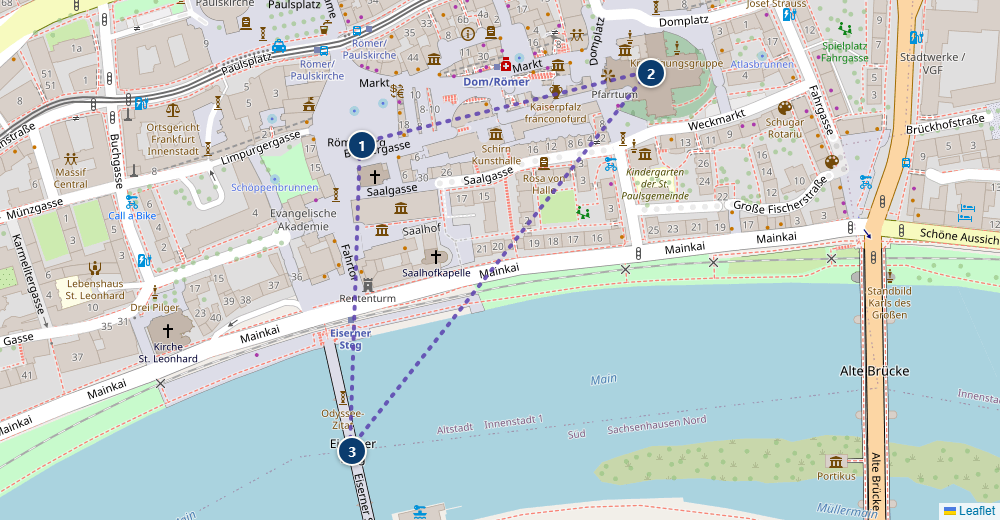
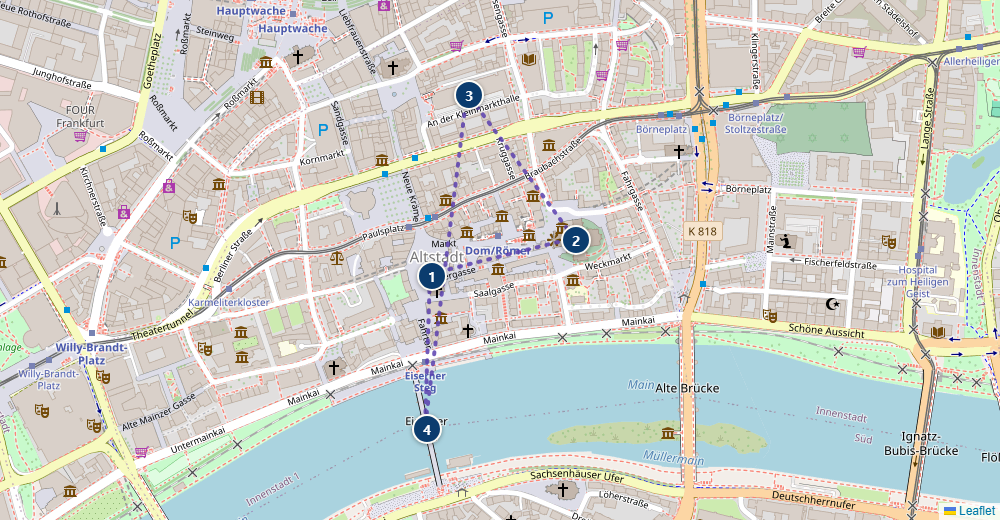
Add walkable indoor markets to Freiburg/Frankfurt routes; add a full walking-loop map for Triberg
- Freiburg: add Markthalle as a numbered landmark card, map pin, and
  route-step (between Martinstor and Rathausplatz); renumber subsequent
  stops
- Frankfurt: add Kleinmarkthalle as a landmark card, map pin, and
  route-step between the cathedral and Eiserner Steg
- Munich's Viktualienmarkt was already a full landmark/map/route stop
  (stop 7) — verified, no change needed
- Triberg: build a new Leaflet route-snapshot map and walk-map-link for
  the town's 3 walkable sights (뻐꾸기시계 원조마을 → 트리베르크란트 → 폭포),
  with the optional Eble Uhren-Park (Schonach, not walkable) shown as an
  off-route callout, matching the pattern used for small-stop cities

diff --git a/germany-roadtrip-planner.html b/germany-roadtrip-planner.html
@@ -2907,14 +2907,15 @@ document.addEventListener('DOMContentLoaded', function(){
       <p class="city-label">프라이부르크</p>
       <p class="walk-map-note">🚗 숙소(Hotel Kühler Krug)→뮌스터 약 4.6km·11분(Günterstal 소재라 도보권 아님) · <a href="https://www.google.com/maps/dir/?api=1&travelmode=driving&origin=47.9662,7.8550&destination=47.9975,7.8541" target="_blank" rel="noopener">Google 지도로 길찾기</a><br>🅿 Parkhaus Karlsbau · 유료(30분당 €1.30, 24시간 최대 €22) · 뮌스터 도보 2~4분 · ⚠ 기존 추천이었던 Parkhaus Am Martinstor는 Google 리뷰 1.9점(폭이 매우 좁아 차량 손상 사례 다수)으로 확인돼 이곳으로 변경 — Karlsbau는 ADAC "이용하기 좋은 주차장"상 2회 수상 · <a href="https://www.google.com/maps/search/?api=1&query=Parkhaus+Karlsbau+Freiburg" target="_blank" rel="noopener">주차장 위치 보기</a><br>🅿 만차 시 대안: ① <a href="https://www.google.com/maps/search/?api=1&query=Tiefgarage+Uni+KG+Freiburg" target="_blank" rel="noopener">Tiefgarage Uni KG</a>(대학본관, Karlsbau와 비슷한 위치·요금, 단 2026년 여름까지 리모델링으로 자리 일부 축소) ② <a href="https://www.google.com/maps/search/?api=1&query=Parkhaus+Am+Martinstor+Freiburg" target="_blank" rel="noopener">Parkhaus Am Martinstor</a>(리뷰는 나쁘지만 도시성문 바로 앞, 시간당 €3)</p>
       <p class="walk-map-note">지도별 추천 코스 — 프라이부르크: 뮌스터 → 시청광장 → 옛 상인회관 → 아우구스티너박물관 → 도시성문 → Haus zum Walfisch (아래 카드 순서와 동일)</p>
-      <a class="walk-map-link" href="https://www.google.com/maps/dir/?api=1&travelmode=walking&origin=47.9975,7.8541&destination=47.9975,7.8541&waypoints=47.9937%2C7.8489%7C47.9962%2C7.8496%7C47.9964%2C7.8507%7C47.9938%2C7.8532%7C47.995%2C7.8527%7C47.9955,7.8529" target="_blank" rel="noopener">📍 Google 지도로 도보 코스 보기(출발·도착: Parkhaus Karlsbau) · 총 약 2.0km · 도보 약 28분</a>
+      <a class="walk-map-link" href="https://www.google.com/maps/dir/?api=1&travelmode=walking&origin=47.9975,7.8541&destination=47.9975,7.8541&waypoints=47.9937%2C7.8489%7C47.9939%2C7.8498%7C47.9962%2C7.8496%7C47.9964%2C7.8507%7C47.9938%2C7.8532%7C47.995%2C7.8527%7C47.9955,7.8529" target="_blank" rel="noopener">📍 Google 지도로 도보 코스 보기(출발·도착: Parkhaus Karlsbau) · 총 약 2.1km · 도보 약 30분</a>
       <div class="route-snapshot">
         <div class="route-snapshot-media">
-          <img src="images/routes/freiburg.png?v=3" alt="프라이부르크 도보 코스 지도 스냅샷" loading="lazy">
+          <img src="images/routes/freiburg.png?v=4" alt="프라이부르크 도보 코스 지도 스냅샷" loading="lazy">
         </div>
         <ol class="route-steps">
         <li><span class="rs-name">주차장(Parkhaus Karlsbau)</span></li>
         <li><span class="rs-name">도시성문(Martinstor)</span><span class="rs-seg">(650m, 9분)</span></li>
+        <li><span class="rs-name">Markthalle</span><span class="rs-seg">(120m, 2분)</span></li>
         <li><span class="rs-name">시청광장</span><span class="rs-seg">(300m, 4분)</span></li>
         <li><span class="rs-name">Haus zum Walfisch</span><span class="rs-seg">(130m, 2분)</span></li>
         <li><span class="rs-name">아우구스티너박물관</span><span class="rs-seg">(450m, 6분)</span></li>
@@ -2934,9 +2935,18 @@ document.addEventListener('DOMContentLoaded', function(){
         </div>
       </div>
       <div class="landmark-card">
+        <img src="https://commons.wikimedia.org/wiki/Special:FilePath/Markthalle%20(Freiburg)%203389.jpg?width=500" alt="프라이부르크 마르크트할레(Markthalle)" loading="lazy">
+        <div class="landmark-body">
+        <h3><span class="stop-num">2</span>마르크트할레(Markthalle)</h3>
+        <p class="landmark-desc">1800년대 건물을 개조한 실내 푸드홀. 세계 각국 음식 스탠드가 모여 있어 도보 코스 중간에 가볍게 식사하기 좋습니다.</p>
+        <div class="landmark-meta">월–목 08:00–20:00, 금·토 08:00–24:00, 일·공휴일 휴무 · <span class="landmark-price">입장 무료(음식은 스탠드별 결제)</span> · <a href="https://www.google.com/maps/search/?api=1&query=Markthalle+Freiburg+im+Breisgau" target="_blank" rel="noopener">지도</a></div>
+        <div class="landmark-parking">🅿 뮌스터 도보 2~4분(Parkhaus Karlsbau) · 유료(30분당 €1.30, 24시간 최대 €22)</div>
+        </div>
+      </div>
+      <div class="landmark-card">
         <img src="https://commons.wikimedia.org/wiki/Special:FilePath/Rathausplatz_Freiburg_10.jpg?width=500" alt="시청광장" loading="lazy">
         <div class="landmark-body">
-        <h3><span class="stop-num">2</span>시청광장(Rathausplatz)</h3>
+        <h3><span class="stop-num">3</span>시청광장(Rathausplatz)</h3>
         <p class="landmark-desc">신 시청사와 구 시청사가 마주 보는 광장. 신 시청사 탑에선 카리용(carillon, 여러 개의 종을 음계에 맞춰 달아 연주하는 종탑 악기)이 울립니다.</p>
         <div class="landmark-meta">카리용 매일 <span style="color:#c0392b;font-weight:800;">12:00</span> 단 1회(놓치면 다음날까지 없음) · 상시 개방 · <span class="landmark-price">무료</span> · <a href="https://www.google.com/maps/search/?api=1&query=Rathausplatz+Freiburg" target="_blank" rel="noopener">지도</a></div>
         <div class="landmark-parking">🅿 뮌스터 도보 2~4분(Parkhaus Karlsbau) · 유료(30분당 €1.30, 24시간 최대 €22)</div>
@@ -2945,7 +2955,7 @@ document.addEventListener('DOMContentLoaded', function(){
       <div class="landmark-card">
         <img src="https://commons.wikimedia.org/wiki/Special:FilePath/2015_Haus_zum_Walfisch.jpg?width=500" alt="Haus zum Walfisch" loading="lazy">
         <div class="landmark-body">
-        <h3><span class="stop-num">3</span>Haus zum Walfisch(고래의 집)</h3>
+        <h3><span class="stop-num">4</span>Haus zum Walfisch(고래의 집)</h3>
         <p class="landmark-desc">1516년 지어진 후기 고딕 건물. 1529~1535년 인문학자 에라스뮈스가 이곳에 머물렀던 것으로 유명합니다.</p>
         <div class="landmark-meta">외관 상시 관람(내부 비공개) · <span class="landmark-price">무료</span> · <a href="https://www.google.com/maps/search/?api=1&query=Haus+zum+Walfisch+Freiburg" target="_blank" rel="noopener">지도</a></div>
         <div class="landmark-parking">🅿 뮌스터 도보 2~4분(Parkhaus Karlsbau) · 유료(30분당 €1.30, 24시간 최대 €22)</div>
@@ -2954,7 +2964,7 @@ document.addEventListener('DOMContentLoaded', function(){
       <div class="landmark-card">
         <img src="https://commons.wikimedia.org/wiki/Special:FilePath/Augustinermuseum_Freiburg_-_DSC06509.JPG?width=500" alt="아우구스티너박물관" loading="lazy">
         <div class="landmark-body">
-        <h3><span class="stop-num">4</span>아우구스티너박물관(Augustinermuseum)</h3>
+        <h3><span class="stop-num">5</span>아우구스티너박물관(Augustinermuseum)</h3>
         <p class="landmark-desc">옛 아우구스티노 수도원 건물을 개조한 미술관. 뮌스터 원본 스테인드글라스·조각상 등 중세~근대 미술품을 소장합니다.</p>
         <div class="landmark-meta">화–일 10:00–17:00(금 ~19:00), 월요일 휴관 · <span class="landmark-price">성인 €12 · 27세 미만 무료(현장 확인 권장)</span> · <a href="https://museen.freiburg.de/museen/am" target="_blank" rel="noopener">홈페이지</a> · <a href="https://www.google.com/maps/search/?api=1&query=Augustinermuseum+Freiburg" target="_blank" rel="noopener">지도</a></div>
         <div class="landmark-parking">🅿 뮌스터 도보 2~4분(Parkhaus Karlsbau) · 유료(30분당 €1.30, 24시간 최대 €22)</div>
@@ -2963,7 +2973,7 @@ document.addEventListener('DOMContentLoaded', function(){
       <div class="landmark-card">
         <img src="https://commons.wikimedia.org/wiki/Special:FilePath/Historisches_Kaufhaus_Freiburg.jpg?width=500" alt="옛 상인회관" loading="lazy">
         <div class="landmark-body">
-        <h3><span class="stop-num">5</span>옛 상인회관(Historisches Kaufhaus)</h3>
+        <h3><span class="stop-num">6</span>옛 상인회관(Historisches Kaufhaus)</h3>
         <p class="landmark-desc">뮌스터 광장 남쪽을 압도하는 붉은 파사드의 1520년대 건물. 합스부르크 황제들의 문장이 벽면을 장식합니다.</p>
         <div class="landmark-meta">외관 상시 관람(내부는 행사장으로 비공개인 경우 많음) · <span class="landmark-price">외관 무료</span> · <a href="https://www.google.com/maps/search/?api=1&query=Historisches+Kaufhaus+Freiburg" target="_blank" rel="noopener">지도</a></div>
         <div class="landmark-parking">🅿 뮌스터 도보 2~4분(Parkhaus Karlsbau) · 유료(30분당 €1.30, 24시간 최대 €22)</div>
@@ -2972,7 +2982,7 @@ document.addEventListener('DOMContentLoaded', function(){
       <div class="landmark-card">
         <img src="https://upload.wikimedia.org/wikipedia/commons/thumb/7/76/Freiburger_M%C3%BCnster_-_FaB.jpg/500px-Freiburger_M%C3%BCnster_-_FaB.jpg" alt="프라이부르크 뮌스터 전망대(Freiburger Münster)" loading="lazy">
         <div class="landmark-body">
-        <h3><span class="stop-num">6</span>프라이부르크 뮌스터 전망대(Freiburger Münster)</h3>
+        <h3><span class="stop-num">7</span>프라이부르크 뮌스터 전망대(Freiburger Münster)</h3>
         <p class="landmark-desc">구시가 어디서나 보이는 116m 첨탑. 정교한 레이스 세공 같은 첨탑 장식이 특징입니다.</p>
         <div class="landmark-meta">월–토 11:00–16:00, 일·공휴일 13:00–17:00 · 본당 무료 · <span class="landmark-price">전망대 성인 €5</span> · <a href="https://www.freiburgermuenster.info" target="_blank" rel="noopener">홈페이지</a> · <a href="https://www.google.com/maps/search/?api=1&query=Freiburger+Muenster" target="_blank" rel="noopener">지도</a></div>
         <div class="landmark-parking">🅿 뮌스터 도보 2~4분(Parkhaus Karlsbau) · 유료(30분당 €1.30, 24시간 최대 €22)</div>
@@ -3074,20 +3084,41 @@ document.addEventListener('DOMContentLoaded', function(){
       </div>
       <p class="city-label">트리베르크</p>
       <p class="walk-map-note">🚗 프라이부르크→트리베르크 약 59km·1시간 1분 · <a href="https://www.google.com/maps/dir/?api=1&travelmode=driving&origin=47.9955,7.8529&destination=48.1263,8.2313" target="_blank" rel="noopener">Google 지도로 길찾기</a><br>🅿 시내 곳곳 소규모 주차장 · 유료(시간당 약 €1~2, 현장 확인 권장)</p>
+      <p class="walk-map-note">지도별 추천 코스 — 트리베르크: 뻐꾸기시계 원조마을 → 트리베르크란트 → 폭포</p>
+      <a class="walk-map-link" href="https://www.google.com/maps/dir/?api=1&travelmode=walking&origin=48.1291,8.2311&destination=48.1291,8.2311&waypoints=48.1315%2C8.2325%7C48.1264,8.2276" target="_blank" rel="noopener">📍 Google 지도로 도보 코스 보기 · 총 약 1.5km · 도보 약 20분</a>
+      <div class="route-snapshot">
+        <div class="route-snapshot-media">
+          <img src="images/routes/triberg.png" alt="트리베르크 도보 코스 지도 스냅샷" loading="lazy">
+        </div>
+        <ol class="route-steps">
+        <li><span class="rs-name">뻐꾸기시계 원조마을</span></li>
+        <li><span class="rs-name">트리베르크란트</span><span class="rs-seg">(300m, 4분)</span></li>
+        <li><span class="rs-name">트리베르크 폭포</span><span class="rs-seg">(750m, 10분)</span></li>
+        <li><span class="rs-name">뻐꾸기시계 원조마을</span><span class="rs-seg">(450m, 6분)</span></li>
+        </ol>
+      </div>
       <div class="landmark-card">
         <img src="https://commons.wikimedia.org/wiki/Special:FilePath/Cuckoo%20clocks%20in%20Triberg%20im%20Schwarzwald.JPG?width=500" alt="트리베르크 뻐꾸기시계 원조마을" loading="lazy">
         <div class="landmark-body">
-        <h3>트리베르크 뻐꾸기시계 원조마을(Haus der 1000 Uhren)</h3>
+        <h3><span class="stop-num">1</span>트리베르크 뻐꾸기시계 원조마을(Haus der 1000 Uhren)</h3>
         <p class="landmark-desc">뻐꾸기시계 발상지로 알려진 블랙 포레스트 마을. 하우스 데어 1000 우렌 등 원조 공방·상점이 모여 있고, 인근 쇼나흐(Schonach)엔 한때 세계 최대로 불렸던 대형 뻐꾸기시계도 있습니다.</p>
         <div class="landmark-meta">상점가는 대체로 09:00–18:00(매장별 상이) · <span class="landmark-price">거리 관람 무료 · 매장 관람 무료</span> · <a href="https://www.google.com/maps/search/?api=1&query=Haus+der+1000+Uhren+Triberg" target="_blank" rel="noopener">지도</a></div>
         <div class="landmark-parking">🅿 시내 곳곳 소규모 주차장 · 유료(시간당 약 €1~2) · 현장 확인 권장</div>
         <div class="meaning-box"><span class="mb-label">💡 이곳이 갖는 의미</span>18세기부터 뻐꾸기시계 산업이 시작된 블랙 포레스트의 중심지 중 하나로, &ldquo;원조&rdquo; 타이틀을 두고 인근 마을들과 함께 거론되는 대표 관광지입니다.</div>
         </div>
       </div>
+      <div class="landmark-card wide">
+        <div class="landmark-body">
+        <h3><span class="stop-num">2</span>[선택] 트리베르크란트(Triberg-Land)</h3>
+        <p class="landmark-desc">트리베르크 시내 중심가에 있는 소규모 테마 명소. 정확한 전시 구성은 현장에서 확인을 권장하며, 폭포·시계마을 관람 사이 짧게 들르기 좋은 위치입니다.</p>
+        <div class="landmark-meta">영업시간 현장 확인 권장 · <span class="landmark-price">현장 확인 권장</span> · <a href="https://www.google.com/maps/search/?api=1&query=Triberg-Land+Triberg" target="_blank" rel="noopener">지도</a></div>
+        <div class="landmark-parking">🅿 시내 곳곳 소규모 주차장</div>
+        </div>
+      </div>
       <div class="landmark-card">
         <img src="https://commons.wikimedia.org/wiki/Special:FilePath/Triberg-Gutach-Wasserfall-26-2025-gje.jpg?width=500" alt="트리베르크 폭포" loading="lazy">
         <div class="landmark-body">
-        <h3>트리베르크 폭포(Triberger Wasserfälle)</h3>
+        <h3><span class="stop-num">3</span>트리베르크 폭포(Triberger Wasserfälle)</h3>
         <p class="landmark-desc">독일에서 가장 높은 폭포(163m, 여러 단으로 낙차). 시내에서 도보로 바로 이어지는 산책로가 있어 뻐꾸기시계 마을 관람과 묶어 짧게 들르기 좋습니다.</p>
         <div class="landmark-meta">계절별 상이(대체로 09:00 전후~일몰) · <span class="landmark-price">성인 €9(슈바르츠발트카드 €8.50)</span> · <a href="https://www.google.com/maps/search/?api=1&query=Triberger+Wasserfaelle" target="_blank" rel="noopener">지도</a></div>
         <div class="landmark-parking">🅿 시내 곳곳 소규모 주차장 · 유료(시간당 약 €1~2) · 폭포 입구까지 도보권</div>
@@ -3097,17 +3128,9 @@ document.addEventListener('DOMContentLoaded', function(){
         <img src="https://commons.wikimedia.org/wiki/Special:FilePath/Weltgr%C3%B6sste%20Kuckucksuhr%20-%20World%27s%20Biggest%20Cuckoo%20Clock%20-%20panoramio.jpg?width=500" alt="에블레 우렌파크 세계 최대 뻐꾸기시계" loading="lazy">
         <div class="landmark-body">
         <h3>[선택] 에블레 우렌파크(Eble Uhren-Park) — 세계 최대 뻐꾸기시계</h3>
-        <p class="landmark-desc">트리베르크 인근 쇼나흐(Schonach)에 있는 대형 시계 판매점 겸 명물. 건물 자체가 거대한 뻐꾸기시계 모양으로, 한때 "세계에서 가장 큰 뻐꾸기시계" 타이틀을 두고 인근 마을과 경쟁했습니다. 시내에서 차량으로 조금 벗어나 있어 시간 여유가 있을 때 들르는 선택 코스입니다.</p>
+        <p class="landmark-desc">트리베르크 인근 쇼나흐(Schonach)에 있는 대형 시계 판매점 겸 명물. 건물 자체가 거대한 뻐꾸기시계 모양으로, 한때 "세계에서 가장 큰 뻐꾸기시계" 타이틀을 두고 인근 마을과 경쟁했습니다. 시내에서 차량으로 조금 벗어나 있어(도보권 밖) 시간 여유가 있을 때 들르는 선택 코스입니다.</p>
         <div class="landmark-meta">매장 영업시간 기준(현장 확인 권장) · <span class="landmark-price">외관 관람 무료</span> · <a href="https://www.google.com/maps/search/?api=1&query=Eble+Uhren-Park+Schonach" target="_blank" rel="noopener">지도</a></div>
         <div class="landmark-parking">🅿 자체 주차장(무료)</div>
-        </div>
-      </div>
-      <div class="landmark-card wide">
-        <div class="landmark-body">
-        <h3>[선택] 트리베르크란트(Triberg-Land)</h3>
-        <p class="landmark-desc">트리베르크 시내 중심가에 있는 소규모 테마 명소. 정확한 전시 구성은 현장에서 확인을 권장하며, 폭포·시계마을 관람 사이 짧게 들르기 좋은 위치입니다.</p>
-        <div class="landmark-meta">영업시간 현장 확인 권장 · <span class="landmark-price">현장 확인 권장</span> · <a href="https://www.google.com/maps/search/?api=1&query=Triberg-Land+Triberg" target="_blank" rel="noopener">지도</a></div>
-        <div class="landmark-parking">🅿 시내 곳곳 소규모 주차장</div>
         </div>
       </div>
       <div class="sight-list">
@@ -4061,15 +4084,16 @@ document.addEventListener('DOMContentLoaded', function(){
       </div>
       <p class="city-label">프랑크푸르트</p>
       <p class="walk-map-note">🚗 비스바덴→프랑크푸르트 약 39km·32분 · <a href="https://www.google.com/maps/dir/?api=1&travelmode=driving&origin=50.0822,8.2429&destination=50.1106,8.6822" target="_blank" rel="noopener">Google 지도로 길찾기</a><br>🅿 Parkhaus Dom-Römer · 유료(시간당 약 €3~4) · <a href="https://www.google.com/maps/search/?api=1&query=Parkhaus+Dom-Roemer+Frankfurt" target="_blank" rel="noopener">주차장 위치 보기</a><br>🅿 만차 시 대안: <a href="https://www.google.com/maps/search/?api=1&query=Parkhaus+Konstabler+Toengesgasse+8+Frankfurt" target="_blank" rel="noopener">Parkhaus Konstabler</a>(4.0★/967리뷰, 도보 약 12분)</p>
-      <p class="walk-map-note">뢰머광장 일대(도보권, 아래 3곳 모두 서로 5분 이내) — 뢰머광장 → 대성당 → 아이제르너 슈텍</p>
-      <a class="walk-map-link" href="https://www.google.com/maps/dir/?api=1&travelmode=walking&origin=50.1102,8.6822&destination=50.1102,8.6822&waypoints=50.1107%2C8.6853%7C50.1081,8.6821" target="_blank" rel="noopener">📍 Google 지도로 도보 코스 보기(Parkhaus Dom-Römer 출발·도착) · 총 약 1.4km · 도보 약 19분</a>
+      <p class="walk-map-note">뢰머광장 일대(도보권, 아래 4곳 모두 서로 5분 이내) — 뢰머광장 → 대성당 → 클라인마르크트할레 → 아이제르너 슈텍</p>
+      <a class="walk-map-link" href="https://www.google.com/maps/dir/?api=1&travelmode=walking&origin=50.1102,8.6822&destination=50.1102,8.6822&waypoints=50.1107%2C8.6853%7C50.1127%2C8.6830%7C50.1081,8.6821" target="_blank" rel="noopener">📍 Google 지도로 도보 코스 보기(Parkhaus Dom-Römer 출발·도착) · 총 약 1.7km · 도보 약 23분</a>
       <div class="route-snapshot">
         <div class="route-snapshot-media">
-          <img src="images/routes/frankfurt.png" alt="프랑크푸르트 도보 코스 지도 스냅샷" loading="lazy">
+          <img src="images/routes/frankfurt.png?v=2" alt="프랑크푸르트 도보 코스 지도 스냅샷" loading="lazy">
         </div>
         <ol class="route-steps">
         <li><span class="rs-name">뢰머광장(Parkhaus Dom-Römer 출발)</span></li>
         <li><span class="rs-name">프랑크푸르트 대성당</span><span class="rs-seg">(300m, 4분)</span></li>
+        <li><span class="rs-name">클라인마르크트할레(Kleinmarkthalle)</span><span class="rs-seg">(300m, 4분)</span></li>
         <li><span class="rs-name">아이제르너 슈텍</span><span class="rs-seg">(600m, 8분)</span></li>
         <li><span class="rs-name">뢰머광장(Parkhaus Dom-Römer 복귀)</span><span class="rs-seg">(500m, 7분)</span></li>
         </ol>
@@ -4090,6 +4114,15 @@ document.addEventListener('DOMContentLoaded', function(){
         <h3>프랑크푸르트 대성당(카이저돔, Kaiserdom St. Bartholomäus)</h3>
         <p class="landmark-desc">뢰머광장 바로 옆 붉은 사암 성당. 신성로마제국 황제들의 선출·대관식이 열렸던 곳입니다.</p>
         <div class="landmark-meta">월–토 09:00–20:00, 일 13:00–20:00(미사 시간 제외) · <span class="landmark-price">본당 무료</span> · <a href="https://www.google.com/maps/search/?api=1&query=Kaiserdom+Frankfurt" target="_blank" rel="noopener">지도</a></div>
+        <div class="landmark-parking">🅿 Parkhaus Dom-Römer · 유료(시간당 약 €3~4)</div>
+        </div>
+      </div>
+      <div class="landmark-card">
+        <img src="https://commons.wikimedia.org/wiki/Special:FilePath/Kleinmarkthalle,%20Frankfurt,%20Interior%20view%2020190914%201.jpg?width=500" alt="클라인마르크트할레(Kleinmarkthalle) 내부" loading="lazy">
+        <div class="landmark-body">
+        <h3>클라인마르크트할레(Kleinmarkthalle)</h3>
+        <p class="landmark-desc">1954년 문을 연 실내 시장. 정육점·치즈가게·청과상 등 100여 개 상점이 모여 있어 즉석 프랑크푸르터 소시지 등을 사 먹기 좋습니다.</p>
+        <div class="landmark-meta">월–금 08:00–18:00, 토 08:00–16:00, 일·공휴일 휴무 · <span class="landmark-price">입장 무료</span> · <a href="https://www.google.com/maps/search/?api=1&query=Kleinmarkthalle+Frankfurt" target="_blank" rel="noopener">지도</a></div>
         <div class="landmark-parking">🅿 Parkhaus Dom-Römer · 유료(시간당 약 €3~4)</div>
         </div>
       </div>

diff --git a/index.html b/index.html
@@ -2907,14 +2907,15 @@ document.addEventListener('DOMContentLoaded', function(){
       <p class="city-label">프라이부르크</p>
       <p class="walk-map-note">🚗 숙소(Hotel Kühler Krug)→뮌스터 약 4.6km·11분(Günterstal 소재라 도보권 아님) · <a href="https://www.google.com/maps/dir/?api=1&travelmode=driving&origin=47.9662,7.8550&destination=47.9975,7.8541" target="_blank" rel="noopener">Google 지도로 길찾기</a><br>🅿 Parkhaus Karlsbau · 유료(30분당 €1.30, 24시간 최대 €22) · 뮌스터 도보 2~4분 · ⚠ 기존 추천이었던 Parkhaus Am Martinstor는 Google 리뷰 1.9점(폭이 매우 좁아 차량 손상 사례 다수)으로 확인돼 이곳으로 변경 — Karlsbau는 ADAC "이용하기 좋은 주차장"상 2회 수상 · <a href="https://www.google.com/maps/search/?api=1&query=Parkhaus+Karlsbau+Freiburg" target="_blank" rel="noopener">주차장 위치 보기</a><br>🅿 만차 시 대안: ① <a href="https://www.google.com/maps/search/?api=1&query=Tiefgarage+Uni+KG+Freiburg" target="_blank" rel="noopener">Tiefgarage Uni KG</a>(대학본관, Karlsbau와 비슷한 위치·요금, 단 2026년 여름까지 리모델링으로 자리 일부 축소) ② <a href="https://www.google.com/maps/search/?api=1&query=Parkhaus+Am+Martinstor+Freiburg" target="_blank" rel="noopener">Parkhaus Am Martinstor</a>(리뷰는 나쁘지만 도시성문 바로 앞, 시간당 €3)</p>
       <p class="walk-map-note">지도별 추천 코스 — 프라이부르크: 뮌스터 → 시청광장 → 옛 상인회관 → 아우구스티너박물관 → 도시성문 → Haus zum Walfisch (아래 카드 순서와 동일)</p>
-      <a class="walk-map-link" href="https://www.google.com/maps/dir/?api=1&travelmode=walking&origin=47.9975,7.8541&destination=47.9975,7.8541&waypoints=47.9937%2C7.8489%7C47.9962%2C7.8496%7C47.9964%2C7.8507%7C47.9938%2C7.8532%7C47.995%2C7.8527%7C47.9955,7.8529" target="_blank" rel="noopener">📍 Google 지도로 도보 코스 보기(출발·도착: Parkhaus Karlsbau) · 총 약 2.0km · 도보 약 28분</a>
+      <a class="walk-map-link" href="https://www.google.com/maps/dir/?api=1&travelmode=walking&origin=47.9975,7.8541&destination=47.9975,7.8541&waypoints=47.9937%2C7.8489%7C47.9939%2C7.8498%7C47.9962%2C7.8496%7C47.9964%2C7.8507%7C47.9938%2C7.8532%7C47.995%2C7.8527%7C47.9955,7.8529" target="_blank" rel="noopener">📍 Google 지도로 도보 코스 보기(출발·도착: Parkhaus Karlsbau) · 총 약 2.1km · 도보 약 30분</a>
       <div class="route-snapshot">
         <div class="route-snapshot-media">
-          <img src="images/routes/freiburg.png?v=3" alt="프라이부르크 도보 코스 지도 스냅샷" loading="lazy">
+          <img src="images/routes/freiburg.png?v=4" alt="프라이부르크 도보 코스 지도 스냅샷" loading="lazy">
         </div>
         <ol class="route-steps">
         <li><span class="rs-name">주차장(Parkhaus Karlsbau)</span></li>
         <li><span class="rs-name">도시성문(Martinstor)</span><span class="rs-seg">(650m, 9분)</span></li>
+        <li><span class="rs-name">Markthalle</span><span class="rs-seg">(120m, 2분)</span></li>
         <li><span class="rs-name">시청광장</span><span class="rs-seg">(300m, 4분)</span></li>
         <li><span class="rs-name">Haus zum Walfisch</span><span class="rs-seg">(130m, 2분)</span></li>
         <li><span class="rs-name">아우구스티너박물관</span><span class="rs-seg">(450m, 6분)</span></li>
@@ -2934,9 +2935,18 @@ document.addEventListener('DOMContentLoaded', function(){
         </div>
       </div>
       <div class="landmark-card">
+        <img src="https://commons.wikimedia.org/wiki/Special:FilePath/Markthalle%20(Freiburg)%203389.jpg?width=500" alt="프라이부르크 마르크트할레(Markthalle)" loading="lazy">
+        <div class="landmark-body">
+        <h3><span class="stop-num">2</span>마르크트할레(Markthalle)</h3>
+        <p class="landmark-desc">1800년대 건물을 개조한 실내 푸드홀. 세계 각국 음식 스탠드가 모여 있어 도보 코스 중간에 가볍게 식사하기 좋습니다.</p>
+        <div class="landmark-meta">월–목 08:00–20:00, 금·토 08:00–24:00, 일·공휴일 휴무 · <span class="landmark-price">입장 무료(음식은 스탠드별 결제)</span> · <a href="https://www.google.com/maps/search/?api=1&query=Markthalle+Freiburg+im+Breisgau" target="_blank" rel="noopener">지도</a></div>
+        <div class="landmark-parking">🅿 뮌스터 도보 2~4분(Parkhaus Karlsbau) · 유료(30분당 €1.30, 24시간 최대 €22)</div>
+        </div>
+      </div>
+      <div class="landmark-card">
         <img src="https://commons.wikimedia.org/wiki/Special:FilePath/Rathausplatz_Freiburg_10.jpg?width=500" alt="시청광장" loading="lazy">
         <div class="landmark-body">
-        <h3><span class="stop-num">2</span>시청광장(Rathausplatz)</h3>
+        <h3><span class="stop-num">3</span>시청광장(Rathausplatz)</h3>
         <p class="landmark-desc">신 시청사와 구 시청사가 마주 보는 광장. 신 시청사 탑에선 카리용(carillon, 여러 개의 종을 음계에 맞춰 달아 연주하는 종탑 악기)이 울립니다.</p>
         <div class="landmark-meta">카리용 매일 <span style="color:#c0392b;font-weight:800;">12:00</span> 단 1회(놓치면 다음날까지 없음) · 상시 개방 · <span class="landmark-price">무료</span> · <a href="https://www.google.com/maps/search/?api=1&query=Rathausplatz+Freiburg" target="_blank" rel="noopener">지도</a></div>
         <div class="landmark-parking">🅿 뮌스터 도보 2~4분(Parkhaus Karlsbau) · 유료(30분당 €1.30, 24시간 최대 €22)</div>
@@ -2945,7 +2955,7 @@ document.addEventListener('DOMContentLoaded', function(){
       <div class="landmark-card">
         <img src="https://commons.wikimedia.org/wiki/Special:FilePath/2015_Haus_zum_Walfisch.jpg?width=500" alt="Haus zum Walfisch" loading="lazy">
         <div class="landmark-body">
-        <h3><span class="stop-num">3</span>Haus zum Walfisch(고래의 집)</h3>
+        <h3><span class="stop-num">4</span>Haus zum Walfisch(고래의 집)</h3>
         <p class="landmark-desc">1516년 지어진 후기 고딕 건물. 1529~1535년 인문학자 에라스뮈스가 이곳에 머물렀던 것으로 유명합니다.</p>
         <div class="landmark-meta">외관 상시 관람(내부 비공개) · <span class="landmark-price">무료</span> · <a href="https://www.google.com/maps/search/?api=1&query=Haus+zum+Walfisch+Freiburg" target="_blank" rel="noopener">지도</a></div>
         <div class="landmark-parking">🅿 뮌스터 도보 2~4분(Parkhaus Karlsbau) · 유료(30분당 €1.30, 24시간 최대 €22)</div>
@@ -2954,7 +2964,7 @@ document.addEventListener('DOMContentLoaded', function(){
       <div class="landmark-card">
         <img src="https://commons.wikimedia.org/wiki/Special:FilePath/Augustinermuseum_Freiburg_-_DSC06509.JPG?width=500" alt="아우구스티너박물관" loading="lazy">
         <div class="landmark-body">
-        <h3><span class="stop-num">4</span>아우구스티너박물관(Augustinermuseum)</h3>
+        <h3><span class="stop-num">5</span>아우구스티너박물관(Augustinermuseum)</h3>
         <p class="landmark-desc">옛 아우구스티노 수도원 건물을 개조한 미술관. 뮌스터 원본 스테인드글라스·조각상 등 중세~근대 미술품을 소장합니다.</p>
         <div class="landmark-meta">화–일 10:00–17:00(금 ~19:00), 월요일 휴관 · <span class="landmark-price">성인 €12 · 27세 미만 무료(현장 확인 권장)</span> · <a href="https://museen.freiburg.de/museen/am" target="_blank" rel="noopener">홈페이지</a> · <a href="https://www.google.com/maps/search/?api=1&query=Augustinermuseum+Freiburg" target="_blank" rel="noopener">지도</a></div>
         <div class="landmark-parking">🅿 뮌스터 도보 2~4분(Parkhaus Karlsbau) · 유료(30분당 €1.30, 24시간 최대 €22)</div>
@@ -2963,7 +2973,7 @@ document.addEventListener('DOMContentLoaded', function(){
       <div class="landmark-card">
         <img src="https://commons.wikimedia.org/wiki/Special:FilePath/Historisches_Kaufhaus_Freiburg.jpg?width=500" alt="옛 상인회관" loading="lazy">
         <div class="landmark-body">
-        <h3><span class="stop-num">5</span>옛 상인회관(Historisches Kaufhaus)</h3>
+        <h3><span class="stop-num">6</span>옛 상인회관(Historisches Kaufhaus)</h3>
         <p class="landmark-desc">뮌스터 광장 남쪽을 압도하는 붉은 파사드의 1520년대 건물. 합스부르크 황제들의 문장이 벽면을 장식합니다.</p>
         <div class="landmark-meta">외관 상시 관람(내부는 행사장으로 비공개인 경우 많음) · <span class="landmark-price">외관 무료</span> · <a href="https://www.google.com/maps/search/?api=1&query=Historisches+Kaufhaus+Freiburg" target="_blank" rel="noopener">지도</a></div>
         <div class="landmark-parking">🅿 뮌스터 도보 2~4분(Parkhaus Karlsbau) · 유료(30분당 €1.30, 24시간 최대 €22)</div>
@@ -2972,7 +2982,7 @@ document.addEventListener('DOMContentLoaded', function(){
       <div class="landmark-card">
         <img src="https://upload.wikimedia.org/wikipedia/commons/thumb/7/76/Freiburger_M%C3%BCnster_-_FaB.jpg/500px-Freiburger_M%C3%BCnster_-_FaB.jpg" alt="프라이부르크 뮌스터 전망대(Freiburger Münster)" loading="lazy">
         <div class="landmark-body">
-        <h3><span class="stop-num">6</span>프라이부르크 뮌스터 전망대(Freiburger Münster)</h3>
+        <h3><span class="stop-num">7</span>프라이부르크 뮌스터 전망대(Freiburger Münster)</h3>
         <p class="landmark-desc">구시가 어디서나 보이는 116m 첨탑. 정교한 레이스 세공 같은 첨탑 장식이 특징입니다.</p>
         <div class="landmark-meta">월–토 11:00–16:00, 일·공휴일 13:00–17:00 · 본당 무료 · <span class="landmark-price">전망대 성인 €5</span> · <a href="https://www.freiburgermuenster.info" target="_blank" rel="noopener">홈페이지</a> · <a href="https://www.google.com/maps/search/?api=1&query=Freiburger+Muenster" target="_blank" rel="noopener">지도</a></div>
         <div class="landmark-parking">🅿 뮌스터 도보 2~4분(Parkhaus Karlsbau) · 유료(30분당 €1.30, 24시간 최대 €22)</div>
@@ -3074,20 +3084,41 @@ document.addEventListener('DOMContentLoaded', function(){
       </div>
       <p class="city-label">트리베르크</p>
       <p class="walk-map-note">🚗 프라이부르크→트리베르크 약 59km·1시간 1분 · <a href="https://www.google.com/maps/dir/?api=1&travelmode=driving&origin=47.9955,7.8529&destination=48.1263,8.2313" target="_blank" rel="noopener">Google 지도로 길찾기</a><br>🅿 시내 곳곳 소규모 주차장 · 유료(시간당 약 €1~2, 현장 확인 권장)</p>
+      <p class="walk-map-note">지도별 추천 코스 — 트리베르크: 뻐꾸기시계 원조마을 → 트리베르크란트 → 폭포</p>
+      <a class="walk-map-link" href="https://www.google.com/maps/dir/?api=1&travelmode=walking&origin=48.1291,8.2311&destination=48.1291,8.2311&waypoints=48.1315%2C8.2325%7C48.1264,8.2276" target="_blank" rel="noopener">📍 Google 지도로 도보 코스 보기 · 총 약 1.5km · 도보 약 20분</a>
+      <div class="route-snapshot">
+        <div class="route-snapshot-media">
+          <img src="images/routes/triberg.png" alt="트리베르크 도보 코스 지도 스냅샷" loading="lazy">
+        </div>
+        <ol class="route-steps">
+        <li><span class="rs-name">뻐꾸기시계 원조마을</span></li>
+        <li><span class="rs-name">트리베르크란트</span><span class="rs-seg">(300m, 4분)</span></li>
+        <li><span class="rs-name">트리베르크 폭포</span><span class="rs-seg">(750m, 10분)</span></li>
+        <li><span class="rs-name">뻐꾸기시계 원조마을</span><span class="rs-seg">(450m, 6분)</span></li>
+        </ol>
+      </div>
       <div class="landmark-card">
         <img src="https://commons.wikimedia.org/wiki/Special:FilePath/Cuckoo%20clocks%20in%20Triberg%20im%20Schwarzwald.JPG?width=500" alt="트리베르크 뻐꾸기시계 원조마을" loading="lazy">
         <div class="landmark-body">
-        <h3>트리베르크 뻐꾸기시계 원조마을(Haus der 1000 Uhren)</h3>
+        <h3><span class="stop-num">1</span>트리베르크 뻐꾸기시계 원조마을(Haus der 1000 Uhren)</h3>
         <p class="landmark-desc">뻐꾸기시계 발상지로 알려진 블랙 포레스트 마을. 하우스 데어 1000 우렌 등 원조 공방·상점이 모여 있고, 인근 쇼나흐(Schonach)엔 한때 세계 최대로 불렸던 대형 뻐꾸기시계도 있습니다.</p>
         <div class="landmark-meta">상점가는 대체로 09:00–18:00(매장별 상이) · <span class="landmark-price">거리 관람 무료 · 매장 관람 무료</span> · <a href="https://www.google.com/maps/search/?api=1&query=Haus+der+1000+Uhren+Triberg" target="_blank" rel="noopener">지도</a></div>
         <div class="landmark-parking">🅿 시내 곳곳 소규모 주차장 · 유료(시간당 약 €1~2) · 현장 확인 권장</div>
         <div class="meaning-box"><span class="mb-label">💡 이곳이 갖는 의미</span>18세기부터 뻐꾸기시계 산업이 시작된 블랙 포레스트의 중심지 중 하나로, &ldquo;원조&rdquo; 타이틀을 두고 인근 마을들과 함께 거론되는 대표 관광지입니다.</div>
         </div>
       </div>
+      <div class="landmark-card wide">
+        <div class="landmark-body">
+        <h3><span class="stop-num">2</span>[선택] 트리베르크란트(Triberg-Land)</h3>
+        <p class="landmark-desc">트리베르크 시내 중심가에 있는 소규모 테마 명소. 정확한 전시 구성은 현장에서 확인을 권장하며, 폭포·시계마을 관람 사이 짧게 들르기 좋은 위치입니다.</p>
+        <div class="landmark-meta">영업시간 현장 확인 권장 · <span class="landmark-price">현장 확인 권장</span> · <a href="https://www.google.com/maps/search/?api=1&query=Triberg-Land+Triberg" target="_blank" rel="noopener">지도</a></div>
+        <div class="landmark-parking">🅿 시내 곳곳 소규모 주차장</div>
+        </div>
+      </div>
       <div class="landmark-card">
         <img src="https://commons.wikimedia.org/wiki/Special:FilePath/Triberg-Gutach-Wasserfall-26-2025-gje.jpg?width=500" alt="트리베르크 폭포" loading="lazy">
         <div class="landmark-body">
-        <h3>트리베르크 폭포(Triberger Wasserfälle)</h3>
+        <h3><span class="stop-num">3</span>트리베르크 폭포(Triberger Wasserfälle)</h3>
         <p class="landmark-desc">독일에서 가장 높은 폭포(163m, 여러 단으로 낙차). 시내에서 도보로 바로 이어지는 산책로가 있어 뻐꾸기시계 마을 관람과 묶어 짧게 들르기 좋습니다.</p>
         <div class="landmark-meta">계절별 상이(대체로 09:00 전후~일몰) · <span class="landmark-price">성인 €9(슈바르츠발트카드 €8.50)</span> · <a href="https://www.google.com/maps/search/?api=1&query=Triberger+Wasserfaelle" target="_blank" rel="noopener">지도</a></div>
         <div class="landmark-parking">🅿 시내 곳곳 소규모 주차장 · 유료(시간당 약 €1~2) · 폭포 입구까지 도보권</div>
@@ -3097,17 +3128,9 @@ document.addEventListener('DOMContentLoaded', function(){
         <img src="https://commons.wikimedia.org/wiki/Special:FilePath/Weltgr%C3%B6sste%20Kuckucksuhr%20-%20World%27s%20Biggest%20Cuckoo%20Clock%20-%20panoramio.jpg?width=500" alt="에블레 우렌파크 세계 최대 뻐꾸기시계" loading="lazy">
         <div class="landmark-body">
         <h3>[선택] 에블레 우렌파크(Eble Uhren-Park) — 세계 최대 뻐꾸기시계</h3>
-        <p class="landmark-desc">트리베르크 인근 쇼나흐(Schonach)에 있는 대형 시계 판매점 겸 명물. 건물 자체가 거대한 뻐꾸기시계 모양으로, 한때 "세계에서 가장 큰 뻐꾸기시계" 타이틀을 두고 인근 마을과 경쟁했습니다. 시내에서 차량으로 조금 벗어나 있어 시간 여유가 있을 때 들르는 선택 코스입니다.</p>
+        <p class="landmark-desc">트리베르크 인근 쇼나흐(Schonach)에 있는 대형 시계 판매점 겸 명물. 건물 자체가 거대한 뻐꾸기시계 모양으로, 한때 "세계에서 가장 큰 뻐꾸기시계" 타이틀을 두고 인근 마을과 경쟁했습니다. 시내에서 차량으로 조금 벗어나 있어(도보권 밖) 시간 여유가 있을 때 들르는 선택 코스입니다.</p>
         <div class="landmark-meta">매장 영업시간 기준(현장 확인 권장) · <span class="landmark-price">외관 관람 무료</span> · <a href="https://www.google.com/maps/search/?api=1&query=Eble+Uhren-Park+Schonach" target="_blank" rel="noopener">지도</a></div>
         <div class="landmark-parking">🅿 자체 주차장(무료)</div>
-        </div>
-      </div>
-      <div class="landmark-card wide">
-        <div class="landmark-body">
-        <h3>[선택] 트리베르크란트(Triberg-Land)</h3>
-        <p class="landmark-desc">트리베르크 시내 중심가에 있는 소규모 테마 명소. 정확한 전시 구성은 현장에서 확인을 권장하며, 폭포·시계마을 관람 사이 짧게 들르기 좋은 위치입니다.</p>
-        <div class="landmark-meta">영업시간 현장 확인 권장 · <span class="landmark-price">현장 확인 권장</span> · <a href="https://www.google.com/maps/search/?api=1&query=Triberg-Land+Triberg" target="_blank" rel="noopener">지도</a></div>
-        <div class="landmark-parking">🅿 시내 곳곳 소규모 주차장</div>
         </div>
       </div>
       <div class="sight-list">
@@ -4061,15 +4084,16 @@ document.addEventListener('DOMContentLoaded', function(){
       </div>
       <p class="city-label">프랑크푸르트</p>
       <p class="walk-map-note">🚗 비스바덴→프랑크푸르트 약 39km·32분 · <a href="https://www.google.com/maps/dir/?api=1&travelmode=driving&origin=50.0822,8.2429&destination=50.1106,8.6822" target="_blank" rel="noopener">Google 지도로 길찾기</a><br>🅿 Parkhaus Dom-Römer · 유료(시간당 약 €3~4) · <a href="https://www.google.com/maps/search/?api=1&query=Parkhaus+Dom-Roemer+Frankfurt" target="_blank" rel="noopener">주차장 위치 보기</a><br>🅿 만차 시 대안: <a href="https://www.google.com/maps/search/?api=1&query=Parkhaus+Konstabler+Toengesgasse+8+Frankfurt" target="_blank" rel="noopener">Parkhaus Konstabler</a>(4.0★/967리뷰, 도보 약 12분)</p>
-      <p class="walk-map-note">뢰머광장 일대(도보권, 아래 3곳 모두 서로 5분 이내) — 뢰머광장 → 대성당 → 아이제르너 슈텍</p>
-      <a class="walk-map-link" href="https://www.google.com/maps/dir/?api=1&travelmode=walking&origin=50.1102,8.6822&destination=50.1102,8.6822&waypoints=50.1107%2C8.6853%7C50.1081,8.6821" target="_blank" rel="noopener">📍 Google 지도로 도보 코스 보기(Parkhaus Dom-Römer 출발·도착) · 총 약 1.4km · 도보 약 19분</a>
+      <p class="walk-map-note">뢰머광장 일대(도보권, 아래 4곳 모두 서로 5분 이내) — 뢰머광장 → 대성당 → 클라인마르크트할레 → 아이제르너 슈텍</p>
+      <a class="walk-map-link" href="https://www.google.com/maps/dir/?api=1&travelmode=walking&origin=50.1102,8.6822&destination=50.1102,8.6822&waypoints=50.1107%2C8.6853%7C50.1127%2C8.6830%7C50.1081,8.6821" target="_blank" rel="noopener">📍 Google 지도로 도보 코스 보기(Parkhaus Dom-Römer 출발·도착) · 총 약 1.7km · 도보 약 23분</a>
       <div class="route-snapshot">
         <div class="route-snapshot-media">
-          <img src="images/routes/frankfurt.png" alt="프랑크푸르트 도보 코스 지도 스냅샷" loading="lazy">
+          <img src="images/routes/frankfurt.png?v=2" alt="프랑크푸르트 도보 코스 지도 스냅샷" loading="lazy">
         </div>
         <ol class="route-steps">
         <li><span class="rs-name">뢰머광장(Parkhaus Dom-Römer 출발)</span></li>
         <li><span class="rs-name">프랑크푸르트 대성당</span><span class="rs-seg">(300m, 4분)</span></li>
+        <li><span class="rs-name">클라인마르크트할레(Kleinmarkthalle)</span><span class="rs-seg">(300m, 4분)</span></li>
         <li><span class="rs-name">아이제르너 슈텍</span><span class="rs-seg">(600m, 8분)</span></li>
         <li><span class="rs-name">뢰머광장(Parkhaus Dom-Römer 복귀)</span><span class="rs-seg">(500m, 7분)</span></li>
         </ol>
@@ -4090,6 +4114,15 @@ document.addEventListener('DOMContentLoaded', function(){
         <h3>프랑크푸르트 대성당(카이저돔, Kaiserdom St. Bartholomäus)</h3>
         <p class="landmark-desc">뢰머광장 바로 옆 붉은 사암 성당. 신성로마제국 황제들의 선출·대관식이 열렸던 곳입니다.</p>
         <div class="landmark-meta">월–토 09:00–20:00, 일 13:00–20:00(미사 시간 제외) · <span class="landmark-price">본당 무료</span> · <a href="https://www.google.com/maps/search/?api=1&query=Kaiserdom+Frankfurt" target="_blank" rel="noopener">지도</a></div>
+        <div class="landmark-parking">🅿 Parkhaus Dom-Römer · 유료(시간당 약 €3~4)</div>
+        </div>
+      </div>
+      <div class="landmark-card">
+        <img src="https://commons.wikimedia.org/wiki/Special:FilePath/Kleinmarkthalle,%20Frankfurt,%20Interior%20view%2020190914%201.jpg?width=500" alt="클라인마르크트할레(Kleinmarkthalle) 내부" loading="lazy">
+        <div class="landmark-body">
+        <h3>클라인마르크트할레(Kleinmarkthalle)</h3>
+        <p class="landmark-desc">1954년 문을 연 실내 시장. 정육점·치즈가게·청과상 등 100여 개 상점이 모여 있어 즉석 프랑크푸르터 소시지 등을 사 먹기 좋습니다.</p>
+        <div class="landmark-meta">월–금 08:00–18:00, 토 08:00–16:00, 일·공휴일 휴무 · <span class="landmark-price">입장 무료</span> · <a href="https://www.google.com/maps/search/?api=1&query=Kleinmarkthalle+Frankfurt" target="_blank" rel="noopener">지도</a></div>
         <div class="landmark-parking">🅿 Parkhaus Dom-Römer · 유료(시간당 약 €3~4)</div>
         </div>
       </div>
